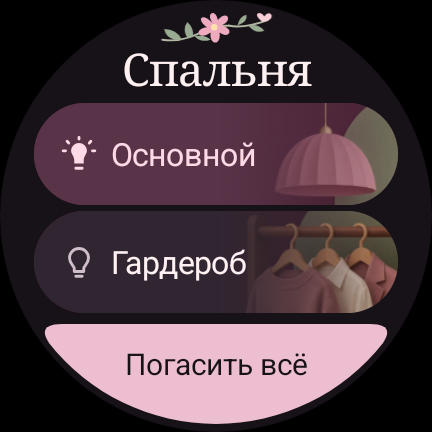
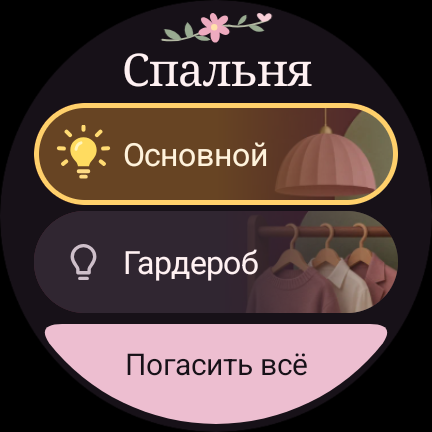
Highlight confirmed lights with a golden rim and animated rays

Changed region(s): [[0.0602, 0.2407, 0.9329, 0.4815], [0.1505, 0.5417, 0.6019, 0.662], [0.8727, 0.2708, 0.9028, 0.3009]]

diff --git a/app/src/main/java/com/galaxywatch/home/HomeActivity.java b/app/src/main/java/com/galaxywatch/home/HomeActivity.java
@@ -1,11 +1,14 @@
 package com.galaxywatch.home;
 
+import android.animation.ValueAnimator;
 import android.app.Activity;
 import android.content.Intent;
 import android.content.SharedPreferences;
 import android.content.res.ColorStateList;
 import android.graphics.Typeface;
+import android.graphics.drawable.Animatable;
 import android.graphics.drawable.Drawable;
+import android.graphics.drawable.InsetDrawable;
 import android.graphics.drawable.GradientDrawable;
 import android.graphics.drawable.LayerDrawable;
 import android.graphics.drawable.RippleDrawable;
@@ -33,6 +36,7 @@ import androidx.wear.widget.SwipeDismissFrameLayout;
 
 import java.io.IOException;
 import java.security.GeneralSecurityException;
+import java.util.ArrayList;
 import java.util.EnumMap;
 import java.util.HashMap;
 import java.util.List;
@@ -50,7 +54,9 @@ public final class HomeActivity extends Activity {
     private static final int TEXT = 0xFFFFF1F2;
     private static final int MUTED = 0xFFCEBFCA;
     private static final int PETAL = 0xFFFFD9E5;
-    private static final int PLUM = 0xFF593448;
+    private static final int LIT_SURFACE = 0xFF674423;
+    private static final int LIT_OUTLINE = 0xFFFFD06B;
+    private static final int LIT_TEXT = 0xFFFFF3DC;
     private static final int ROSE = 0xFFEDBED0;
     private static final int AMBER = 0xFFFFD3A1;
     private static final long FIRST_RETRY_MS = 1000;
@@ -137,6 +143,14 @@ public final class HomeActivity extends Activity {
         else connectRoom();
     }
 
+    @Override public void onWindowFocusChanged(boolean hasFocus) {
+        super.onWindowFocusChanged(hasFocus);
+        for (Button button : controls.values()) {
+            if (hasFocus) startLightAnimation(button);
+            else stopLightAnimation(button);
+        }
+    }
+
     @Override protected void onStop() {
         screenActive = false;
         main.removeCallbacks(verificationTimeout);
@@ -216,8 +230,8 @@ public final class HomeActivity extends Activity {
         for (Rooms.Light light : selected.lights()) {
             Button button = addButton(light.label(), () -> changeLight(light));
             button.setGravity(Gravity.START | Gravity.CENTER_VERTICAL);
-            button.setClipToOutline(light.artwork() != 0);
-            button.setPaddingRelative(dp(12), dp(4), dp(12), dp(4));
+            button.setClipToOutline(true);
+            button.setPaddingRelative(dp(10), dp(4), dp(10), dp(4));
             controls.put(light, button);
         }
         groupOff = addEdgeAction(this::switchOff);
@@ -649,6 +663,7 @@ public final class HomeActivity extends Activity {
     }
 
     private void stopRoom() {
+        for (Button button : controls.values()) stopLightAnimation(button);
         routes = new RoutePlan();
         main.removeCallbacks(reconnect);
         retryDelay = FIRST_RETRY_MS;
@@ -866,17 +881,15 @@ public final class HomeActivity extends Activity {
                 icon = R.drawable.ic_light_unknown;
                 state = R.string.light_state_unknown;
             } else {
-                icon = lit ? R.drawable.ic_light_on : R.drawable.ic_light;
+                icon = lit ? R.drawable.ic_light_glow : R.drawable.ic_light;
                 state = lit ? R.string.light_state_on : R.string.light_state_off;
             }
             button.setEnabled(canChangeLight(light));
             CharSequence description = getText(state);
             if (description.equals(button.getStateDescription())) continue;
-            int surface = lit ? PLUM : SURFACE;
-            button.setBackground(light.artwork() == 0 ? buttonBackground(surface) : illustratedBackground(surface, light.artwork()));
-            button.setTextColor(lit ? PETAL : TEXT);
-            setIcon(button, icon, false);
-            button.setCompoundDrawableTintList(ColorStateList.valueOf(lit ? PETAL : MUTED));
+            button.setBackground(lightBackground(light.artwork(), lit));
+            button.setTextColor(lit ? LIT_TEXT : TEXT);
+            setLightIcon(button, icon, lit);
             button.setStateDescription(description);
         }
         String offLabel = "Погасить всё";
@@ -1006,6 +1019,29 @@ public final class HomeActivity extends Activity {
         button.setCompoundDrawableTintList(above ? null : button.getTextColors());
     }
 
+    private void startLightAnimation(Button button) {
+        if (screenActive && hasWindowFocus() && button.isShown() && ValueAnimator.areAnimatorsEnabled()
+            && button.getCompoundDrawablesRelative()[0] instanceof Animatable animation && !animation.isRunning()) {
+            animation.start();
+        }
+    }
+
+    private void stopLightAnimation(Button button) {
+        if (button.getCompoundDrawablesRelative()[0] instanceof Animatable animation) animation.stop();
+    }
+
+    private void setLightIcon(Button button, int iconId, boolean lit) {
+        stopLightAnimation(button);
+        Drawable icon = getDrawable(iconId).mutate();
+        if (!lit) icon = new InsetDrawable(icon, dp(3));
+        button.setCompoundDrawableTintList(lit ? null : ColorStateList.valueOf(MUTED));
+        int size = dp(27);
+        icon.setBounds(0, 0, size, size);
+        button.setCompoundDrawablesRelative(icon, null, null, null);
+        button.setCompoundDrawablePadding(dp(5));
+        if (lit) startLightAnimation(button);
+    }
+
     private Button button(String label, Runnable action) {
         Button button = new Button(this);
         button.setText(label);
@@ -1022,14 +1058,27 @@ public final class HomeActivity extends Activity {
         return button;
     }
 
-    private RippleDrawable illustratedBackground(int surface, int artwork) {
+    private RippleDrawable lightBackground(int artwork, boolean lit) {
+        int surface = lit ? LIT_SURFACE : SURFACE;
         GradientDrawable pill = new GradientDrawable();
         pill.setColor(surface);
         pill.setCornerRadius(dp(24));
-        int translucent = (surface & 0x00FFFFFF) | 0x20000000;
-        GradientDrawable shade = new GradientDrawable(GradientDrawable.Orientation.LEFT_RIGHT,
-            new int[]{surface, surface, translucent});
-        LayerDrawable layers = new LayerDrawable(new Drawable[]{pill, getDrawable(artwork), shade});
+        List<Drawable> content = new ArrayList<>();
+        content.add(pill);
+        if (artwork != 0) {
+            content.add(getDrawable(artwork));
+            int translucent = (surface & 0x00FFFFFF) | 0x20000000;
+            content.add(new GradientDrawable(GradientDrawable.Orientation.LEFT_RIGHT,
+                new int[]{surface, surface, translucent}));
+        }
+        if (lit) {
+            GradientDrawable outline = new GradientDrawable();
+            outline.setColor(android.graphics.Color.TRANSPARENT);
+            outline.setCornerRadius(dp(24));
+            outline.setStroke(dp(2.25f), LIT_OUTLINE);
+            content.add(outline);
+        }
+        LayerDrawable layers = new LayerDrawable(content.toArray(new Drawable[0]));
         layers.setPaddingMode(LayerDrawable.PADDING_MODE_STACK);
         return new RippleDrawable(ColorStateList.valueOf(0x28FFFFFF), layers, null);
     }

diff --git a/README.md b/README.md
@@ -6,11 +6,11 @@
 
 ## Попробовать за несколько минут
 
-1. Скачайте файл `wirenboard-wear-os-0.6.2-demo.apk` из [выпуска 0.6.2](https://github.com/F4ntik/wirenboard-wear-os/releases/tag/v0.6.2). На компьютере с Android Platform Tools [подключите часы по Wi-Fi через ADB](https://developer.android.com/tools/adb#wireless-android11-command-line). В папке загрузок выполните `adb install -r wirenboard-wear-os-0.6.2-demo.apk`. Подойдут часы или круглый эмулятор Wear OS с Android API 30 и выше.
+1. Скачайте файл `wirenboard-wear-os-0.6.3-demo.apk` из [выпуска 0.6.3](https://github.com/F4ntik/wirenboard-wear-os/releases/tag/v0.6.3). На компьютере с Android Platform Tools [подключите часы по Wi-Fi через ADB](https://developer.android.com/tools/adb#wireless-android11-command-line). В папке загрузок выполните `adb install -r wirenboard-wear-os-0.6.3-demo.apk`. Подойдут часы или круглый эмулятор Wear OS с Android API 30 и выше.
 2. Откройте «Дом» → «Спальня», включите «Основной», затем нажмите «Погасить всё». В демо меняется только картинка на часах. Свайп вправо вернёт к списку комнат.
 3. Чтобы добавить плитку на Galaxy Watch, смахните влево с циферблата до конца списка, нажмите «Добавить карточки» и выберите «Дом». Нажатие на комнату открывает её пульт. Свайп вправо из него возвращает к плитке.
 
-Залитая лампочка с лучами означает включённый свет, контурная — выключенный. Значок часов появляется во время ожидания ответа контроллера, вопросительный знак — когда состояние неизвестно. В комнате «Погасить всё» действует сразу. На главном экране эта команда требует подтверждения для всего дома.
+У включённой лампы золотая рамка вокруг всей кнопки и заполненный жёлтый значок. Пока комната открыта, лучи плавно расходятся и возвращаются. Если в настройках часов отключить анимации, значок и рамка останутся видны. Выключенная лампа обозначена тонким контуром на тёмной кнопке. Значок часов появляется во время ожидания ответа контроллера, вопросительный знак — когда состояние неизвестно. В комнате «Погасить всё» действует сразу. На главном экране эта команда требует подтверждения для всего дома. [Посмотреть движение лучей](docs/lamp-motion.webp)
 
 У каждой комнаты своя веточка над названием. Небольшой рисунок справа помогает узнать выключатель. Плафон и гардероб используют две картинки WebP общим размером 8,5 КиБ. Остальные предметы, веточки и значки нарисованы вектором и поставляются вместе с приложением. [Посмотреть все семь комнат](docs/rooms.webp).
 

diff --git a/CHANGELOG.md b/CHANGELOG.md
@@ -1,5 +1,13 @@
 # История выпусков
 
+## 0.6.3 · 23 ноября 2026
+
+Включённый свет выделен золотой рамкой по всей кнопке. Внутри горит жёлтая лампочка, её лучи плавно расходятся и возвращаются. У выключенной лампы остаётся контур на тёмном фоне. При отключённых анимациях заполненная лампочка и яркая рамка сохраняются. Ожидание ответа контроллера по-прежнему обозначается часами, неизвестное состояние — вопросительным знаком.
+
+На круглом эмуляторе Wear OS проверили переключение обеих ламп спальни и выключение комнаты. При обычном масштабе анимации движутся только лучи, а при отключённой анимации кадр остаётся неподвижным. [Вид спальни](docs/room.png) · [Анимация](docs/lamp-motion.webp)
+
+[Файлы выпуска](https://github.com/F4ntik/wirenboard-wear-os/releases/tag/v0.6.3)
+
 ## 0.6.2 · 23 ноября 2026
 
 - При открытии пульта в режиме «Автоматически» домашний контроллер и WB Cloud проверяются одновременно. Первое подтверждённое соединение получает управление. После ошибки одного канала часы продолжают ждать второй.

diff --git a/remote/README.md b/remote/README.md
@@ -4,7 +4,7 @@
 
 ## Пакет для контроллера Wiren Board
 
-В [выпуске 0.6.2](https://github.com/F4ntik/wirenboard-wear-os/releases/tag/v0.6.2) лежат готовый пакет `wb-wear-light-gateway_0.1.0_all.deb` для учебной карты и архив `wirenboard-wear-os-0.6.2-windows.zip` с APK и программой привязки. Если проверяете саму интеграцию на стенде с учебной картой, можно сразу перейти к установке пакета. Для домашней схемы укажите свои каналы в `gateway.py`, согласуйте их с приложением часов и соберите пакет на Debian 11 или новее.
+В [выпуске 0.6.3](https://github.com/F4ntik/wirenboard-wear-os/releases/tag/v0.6.3) лежат готовый пакет `wb-wear-light-gateway_0.1.0_all.deb` для учебной карты и архив `wirenboard-wear-os-0.6.3-windows.zip` с APK и программой привязки. Если проверяете саму интеграцию на стенде с учебной картой, можно сразу перейти к установке пакета. Для домашней схемы укажите свои каналы в `gateway.py`, согласуйте их с приложением часов и соберите пакет на Debian 11 или новее.
 
 ```sh
 sudo apt install build-essential debhelper dpkg-dev
